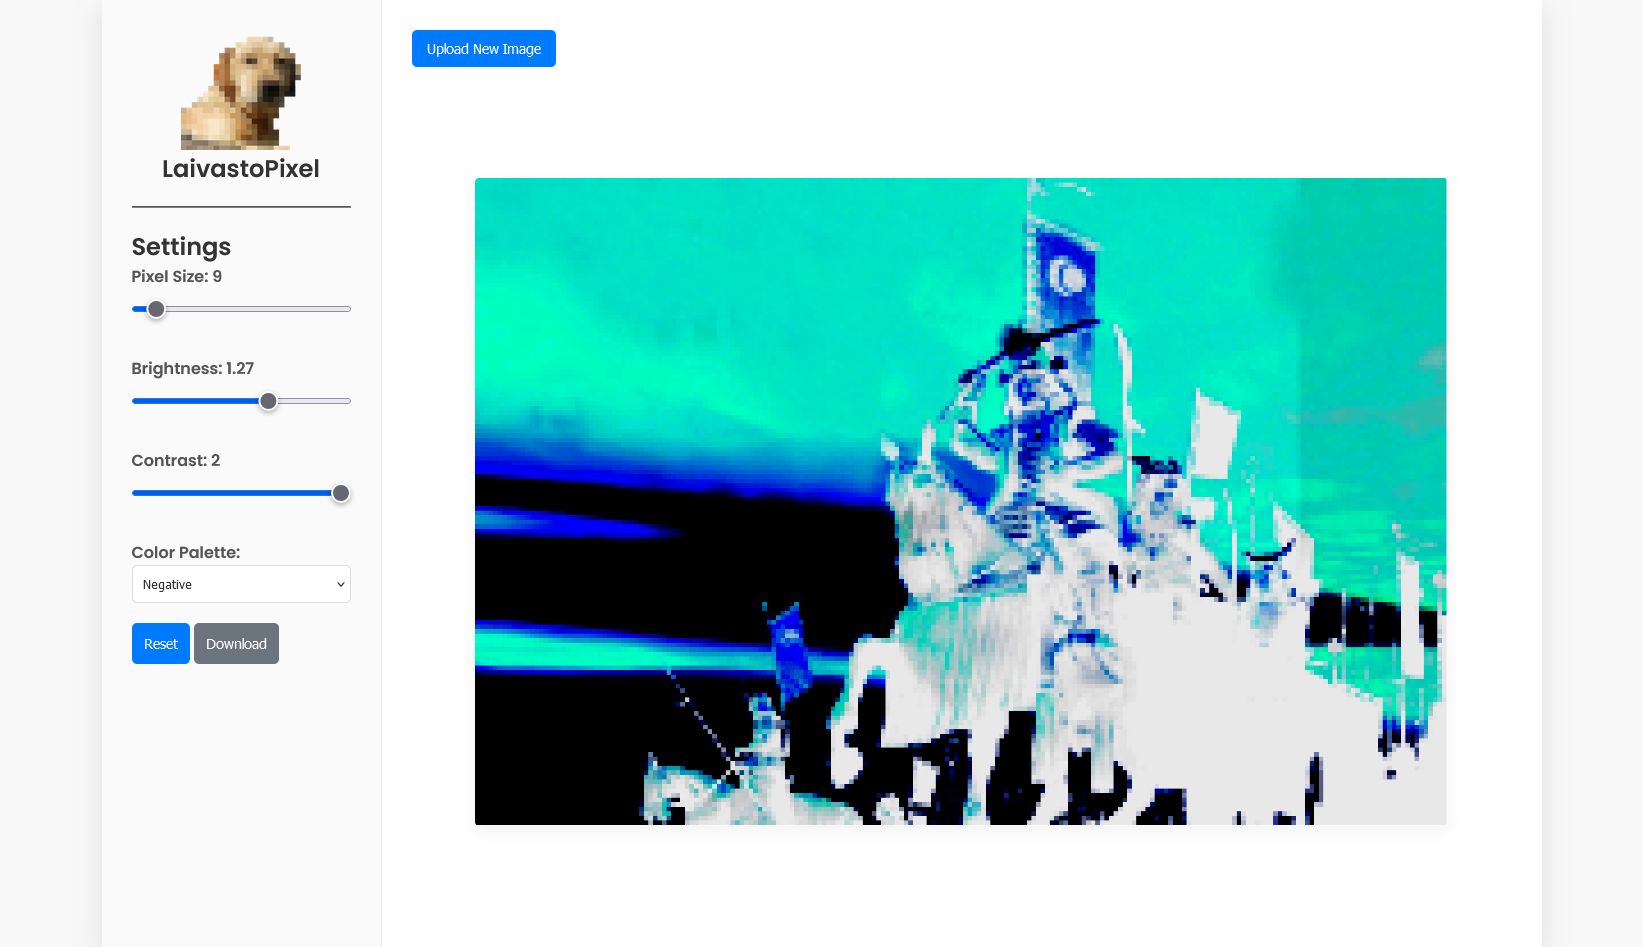
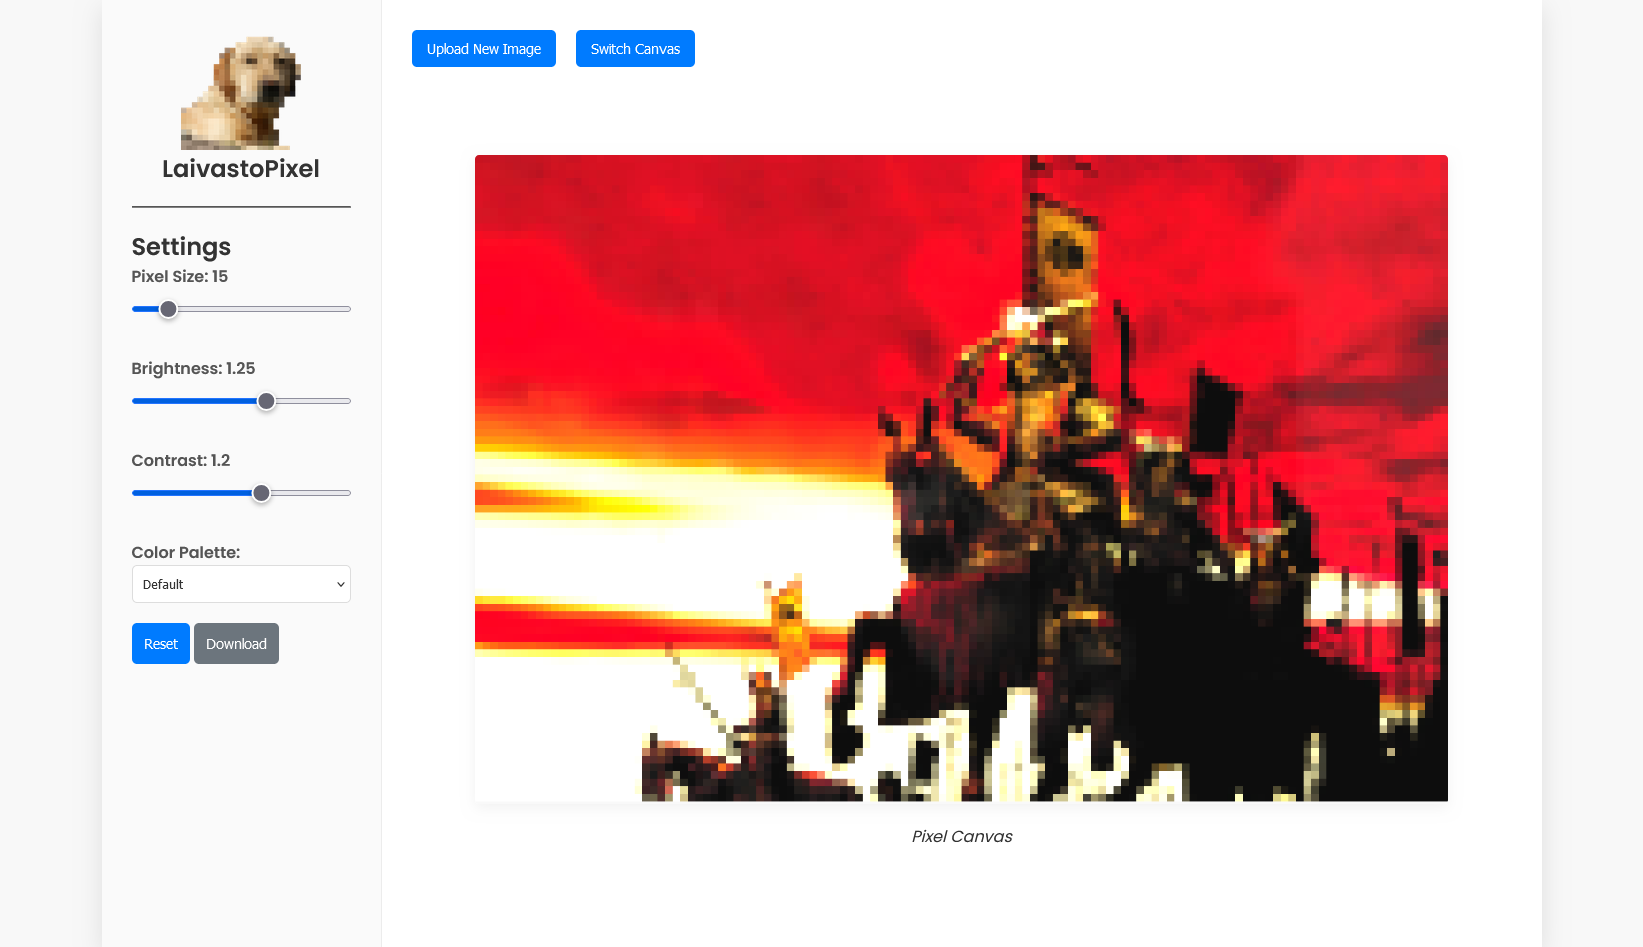
Small fix

diff --git a/src/js/app.js b/src/js/app.js
@@ -1,2 +1,22 @@
 import LaivastoPixel from '../lib/laivastoPixel.js';
 let pixelMaster = new LaivastoPixel();
+
+// TODO
+// Refractor this code into the library
+
+const switchButton = document.getElementById('switchButton');
+const imageCanvas = document.getElementById('imageCanvas');
+const pixelCanvas = document.getElementById('pixelCanvas');
+const canvasStatus = document.getElementById('canvasStatus');
+
+switchButton.addEventListener('click', function() {
+    if (imageCanvas.style.display === 'none') {
+        imageCanvas.style.display = 'block';
+        pixelCanvas.style.display = 'none';
+        canvasStatus.textContent = 'Image Canvas';
+    } else {
+        imageCanvas.style.display = 'none';
+        pixelCanvas.style.display = 'block';
+        canvasStatus.textContent = 'Pixel Canvas';
+    }
+});

diff --git a/src/index.html b/src/index.html
@@ -59,11 +59,13 @@
     <main class="canvas-area">
         <nav class="toolbar">
             <button id="uploadImageBtn" aria-label="Upload Image" class="btn primary-btn">Upload New Image</button>
+            <button id="switchButton" class="btn primary-btn" style="margin-left: 20px;">Switch Canvas</button>
             <input type="file" id="imageInput" style="display:none;" accept="image/*">
         </nav>
         <section class="canvas-section">
             <canvas id="imageCanvas" style="display: none;"></canvas>
             <canvas id="pixelCanvas"></canvas>
+            <em id="canvasStatus">Pixel Canvas</em>
         </section>
     </main>
 </div>

diff --git a/src/assets/css/style.css b/src/assets/css/style.css
@@ -139,8 +139,6 @@ canvas {
     max-width: 95%;
     max-height: 95%;
     border-radius: 4px;
-    background-color: var(--canvas-bg-color);
-    box-shadow: var(--shadow-light);
 }
 
 .disabled {

diff --git a/README.md b/README.md
@@ -4,10 +4,9 @@
 
 # LaivastoPixel - Pixel Art Generator
 
-LaivastoPixel is a pixel art generator library designed to convert images into pixel art. I made this after beeing disapointed by other librairy.
+LaivastoPixel is a pixel art generator library designed to convert images into pixel art. I made this after beeing disapointed by another librairy.
 
-**Important Note**
-
+**Important Note:**
 This project is a prototype created in just a few hours. It is still in its early stages and will evolve over time (Not yet).
 ## Getting Started
 ### Prerequisites
